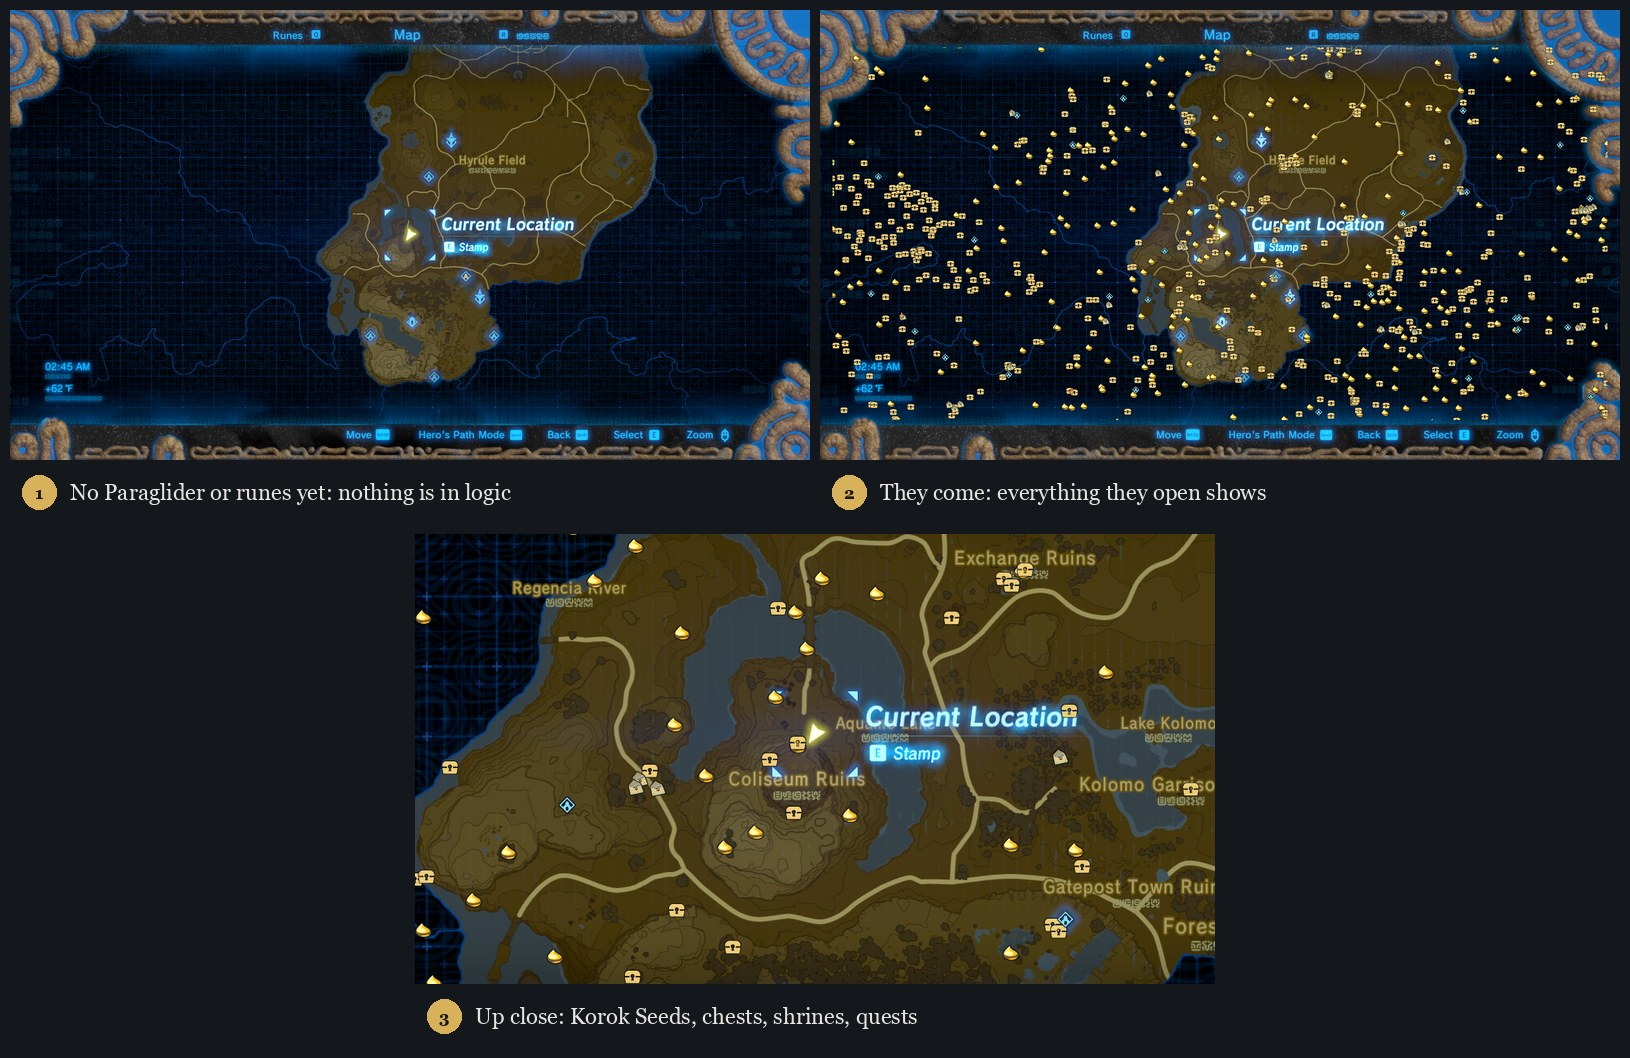
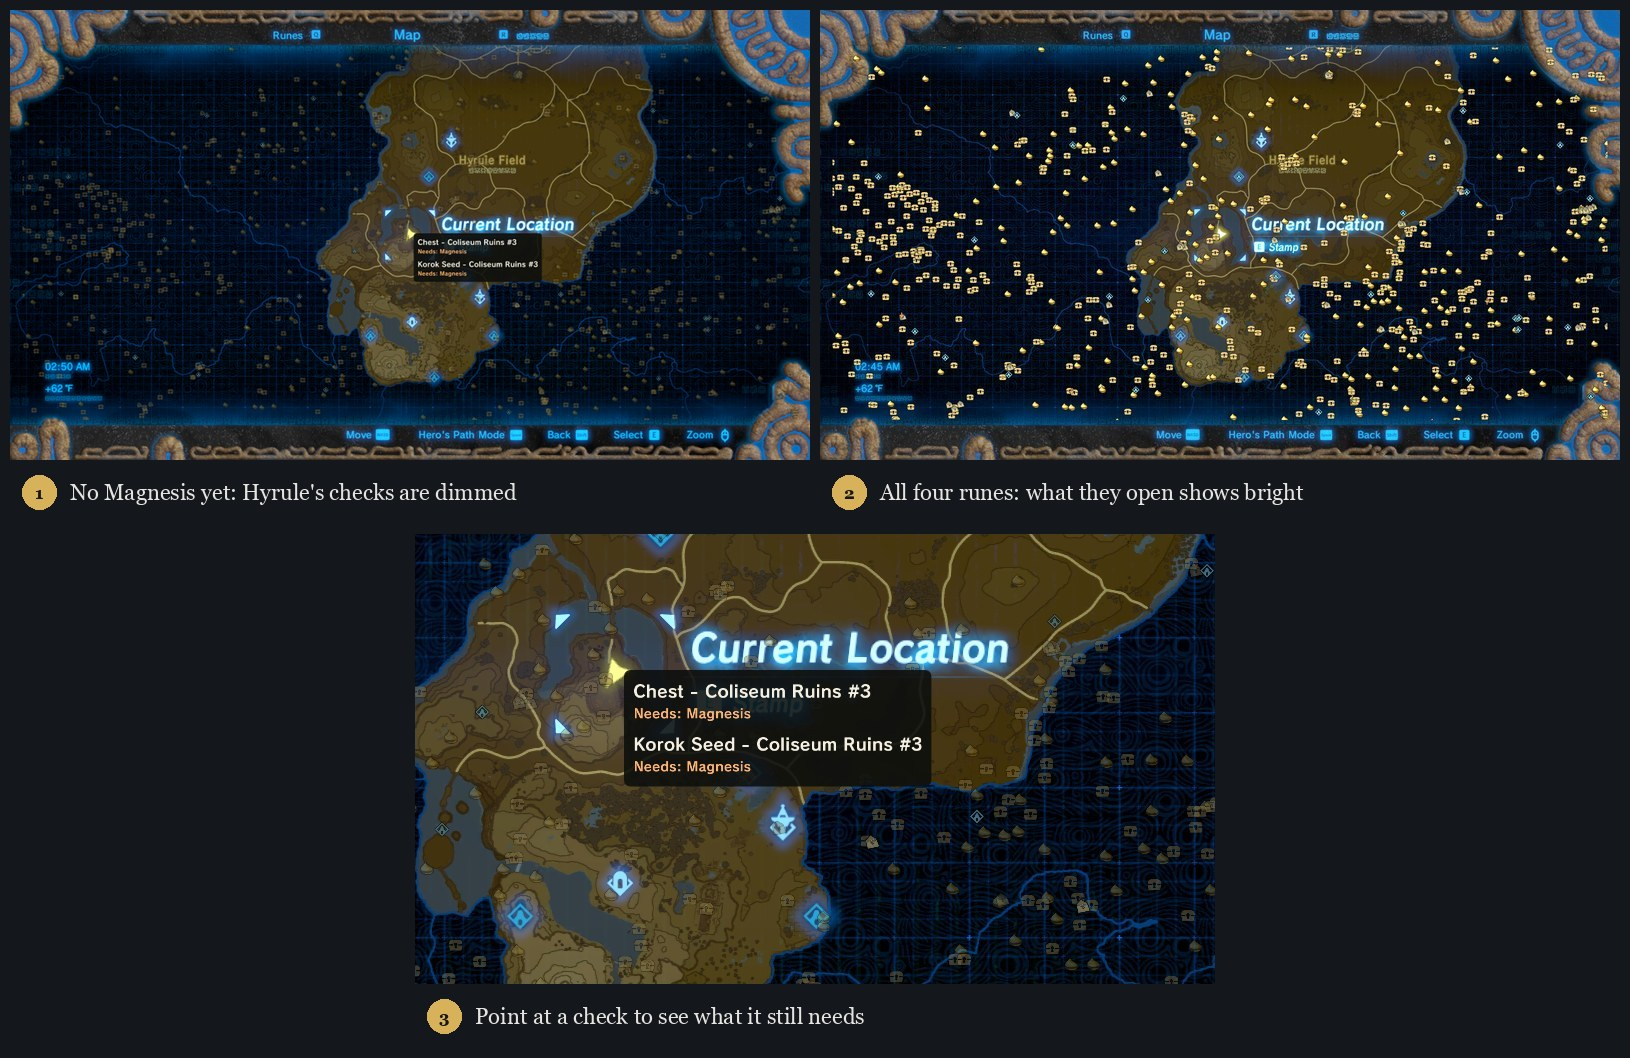
0.4.9: what each check needs on the map, and a crash fix
The map tracker shows out-of-logic checks too, dimmed under the in-logic ones; pointing at an icon shows the check
and what it still needs, and a click keeps that up (the click is not the game's). The details take this frame's
font: 0.4.8's label used the last one, freed when the game reloads its fonts, and could crash.
The game's status (ap) also reports what the tracker sees. README: the tracker, its picture.

diff --git a/tools/map_points.py b/tools/map_points.py
@@ -69,7 +69,9 @@ const int64_t LG_POWERS[4] = {{{", ".join(one(n) for n in powers)}}};
 const int64_t LG_MAPS[{len(names)}] = {{{maps}}};  // (each region's map; 0: the Great Plateau's, none)
 const int LG_PLATEAU = {regions["plateau"]};
 const int8_t LG_ADJACENT[{len(names)}][8] = {{{adj}}};
-const uint32_t LG_CLEARED[4] = {{{", ".join(f"0x{by_hash[b + ' Cleared']:08x}u" for b in beasts)}}};  // (Vah Ruta, Medoh, Rudania, Naboris)
+const uint32_t LG_CLEARED[4] = {{{", ".join(f"0x{by_hash[b + ' Cleared']:08x}u" for b in beasts)}}};
+const char *const LG_BEASTS[4] = {{{", ".join(f'"{b}"' for b in beasts)}}};
+const char *const LG_REGIONS[{len(names)}] = {{{", ".join(f'"{n}"' for n in names)}}};
 """, encoding="utf-8", newline="\n")
     print(f"{len(rows)} places -> {root / 'ap_map_points.inc'}, logic -> {root / 'ap_map_logic.inc'}")
 

diff --git a/tools/build_overlay.py b/tools/build_overlay.py
@@ -19,7 +19,7 @@ ap = sys.argv[2] if len(sys.argv) > 2 else r"C:\ProgramData\Archipelago"
 ex, out = os.path.join(sw, "extracted"), os.path.join(sw, "ap_overlay")
 if os.path.isdir(out):
     shutil.rmtree(out)  # (only ever our own output)
-for script, args in (("title_overlay.py", [os.path.join(ex, "romfs"), out, "0.4.8"]),
+for script, args in (("title_overlay.py", [os.path.join(ex, "romfs"), out, "0.4.9"]),
                      ("ap_item.py", [os.path.join(ex, "romfs"), out, os.path.join(ap, "data", "icon.png")]),
                      ("strip_rewards.py", [ex, out])):
     subprocess.run([sys.executable, "-I", os.path.join(here, script)] + args, check=True)

diff --git a/tools/poptracker.py b/tools/poptracker.py
@@ -686,7 +686,7 @@ def main(ex, out_dir):
     }
     json.dump(layout, open(os.path.join(pack, "layouts", "tracker.json"), "w"), indent=1)
     json.dump({"name": "Breath of the Wild Archipelago (Savage Wind)", "game_name": "Breath of the Wild",
-               "package_uid": "botw_ap_savagewind", "package_version": "0.4.8", "platform": "switch",
+               "package_uid": "botw_ap_savagewind", "package_version": "0.4.9", "platform": "switch",
                "variants": {"standard": {"display_name": "Map Tracker", "flags": ["ap"]}}},
               open(os.path.join(pack, "manifest.json"), "w"), indent=1)
     z = os.path.join(out_dir, "BotW_AP.zip")

diff --git a/tools/title_overlay.py b/tools/title_overlay.py
@@ -1,7 +1,7 @@
 """Builds a RomFS overlay folder that adds an "Archipelago <version>" line to the title screen's bottom-right corner,
 from your own game files. Savage Wind loads it with the launch option SAVAGEWIND_ROMFS_OVERLAY=<that folder>.
 
-    python -I tools/title_overlay.py "<Savage Wind folder>/extracted/romfs" "<Savage Wind folder>/ap_overlay" 0.4.8
+    python -I tools/title_overlay.py "<Savage Wind folder>/extracted/romfs" "<Savage Wind folder>/ap_overlay" 0.4.9
 
 The overlay holds modified game files: it's for your own machine, never share it.
 """

diff --git a/launcher/launcher.py b/launcher/launcher.py
@@ -20,7 +20,7 @@ import time
 import traceback
 import urllib.request
 
-VERSION = "0.4.8"
+VERSION = "0.4.9"
 REPO = "https://github.com/Boi-027/BOTWArchipelago"
 RELEASES_API = "https://api.github.com/repos/Boi-027/BOTWArchipelago/releases?per_page=30"
 

diff --git a/README.md b/README.md
@@ -50,13 +50,14 @@ Press **Enter** out in the world to open the chat: scroll the log with the mouse
 talk to everyone, or ask for a hint with `!hint <item>`. **Esc** closes it.
 
 ### Map tracker
-Open the map while connected and every check you can get now, in logic, has an icon on it: shrines, Korok seeds,
-chests, shops, quests, towers and minigames. A check shows once the items it needs have come (the paraglider, the
-runes, a region's map with the region lock...), goes away as soon as it is sent, and pointing the mouse at an icon
-names it. The icons are made from your own game files at
-**Set up** (`tools/map_icons.py`); without them the tracker shows coloured dots.
+Open the map while connected and every check you still have to get has an icon on it: shrines, Korok seeds, chests,
+shops, quests, towers and minigames. The ones in logic, that you can get now, are bright; the rest are dimmed under
+them and light up as the items they need come (the paraglider, the runes, a region's map with the region lock...).
+A check's icon goes away as soon as it is sent. Point the mouse at an icon to see the check and what it still needs
+("Needs: Magnesis", "441 Korok Seeds (120 so far)"); click it to keep that up, click elsewhere to let it go. The icons
+are made from your own game files at **Set up** (`tools/map_icons.py`); without them the tracker shows coloured dots.
 
-<img src="docs/images/map-tracker.jpg" alt="The map before the Paraglider and the runes, after them with the checks now in logic, and up close" width="100%">
+<img src="docs/images/map-tracker.jpg" alt="The map without Magnesis, its checks dimmed; with all four runes, bright; and a check's details: what it needs" width="100%">
 
 ### The multiworld in your Adventure Log
 Two quests of the game's own start once you connect, at **Multiworld: _your slot_**. **Archipelago Goal** (Main
